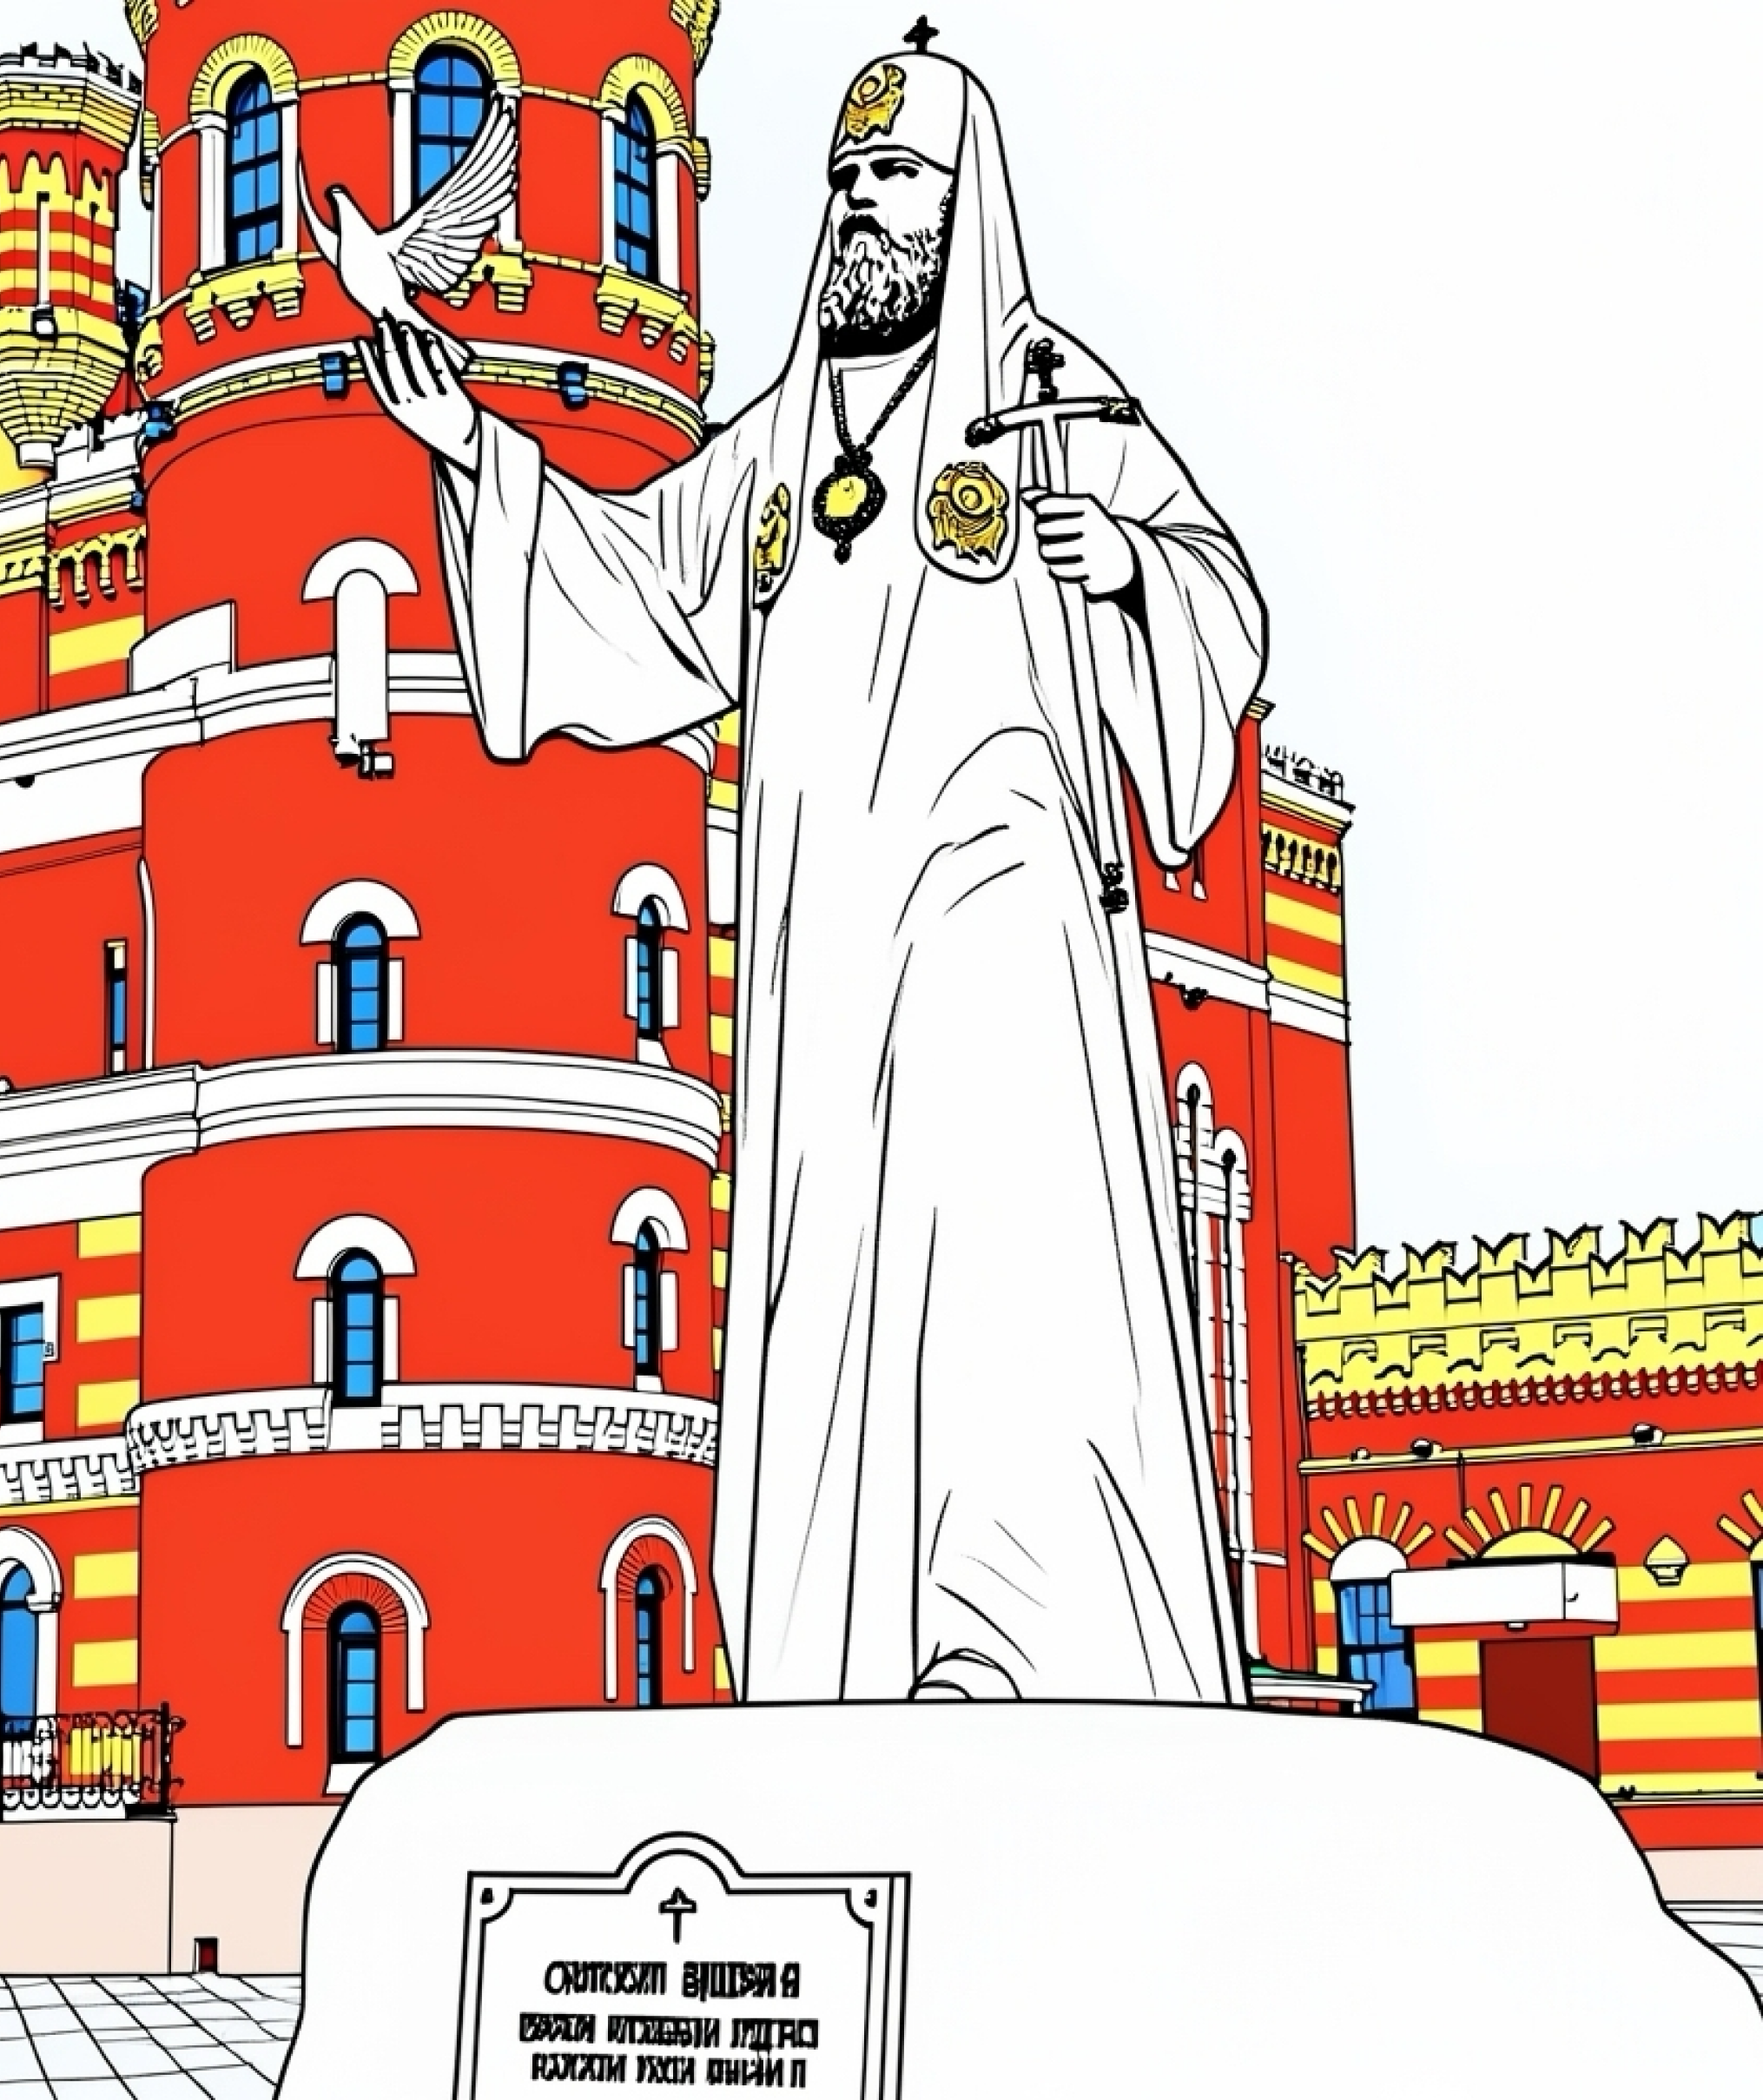
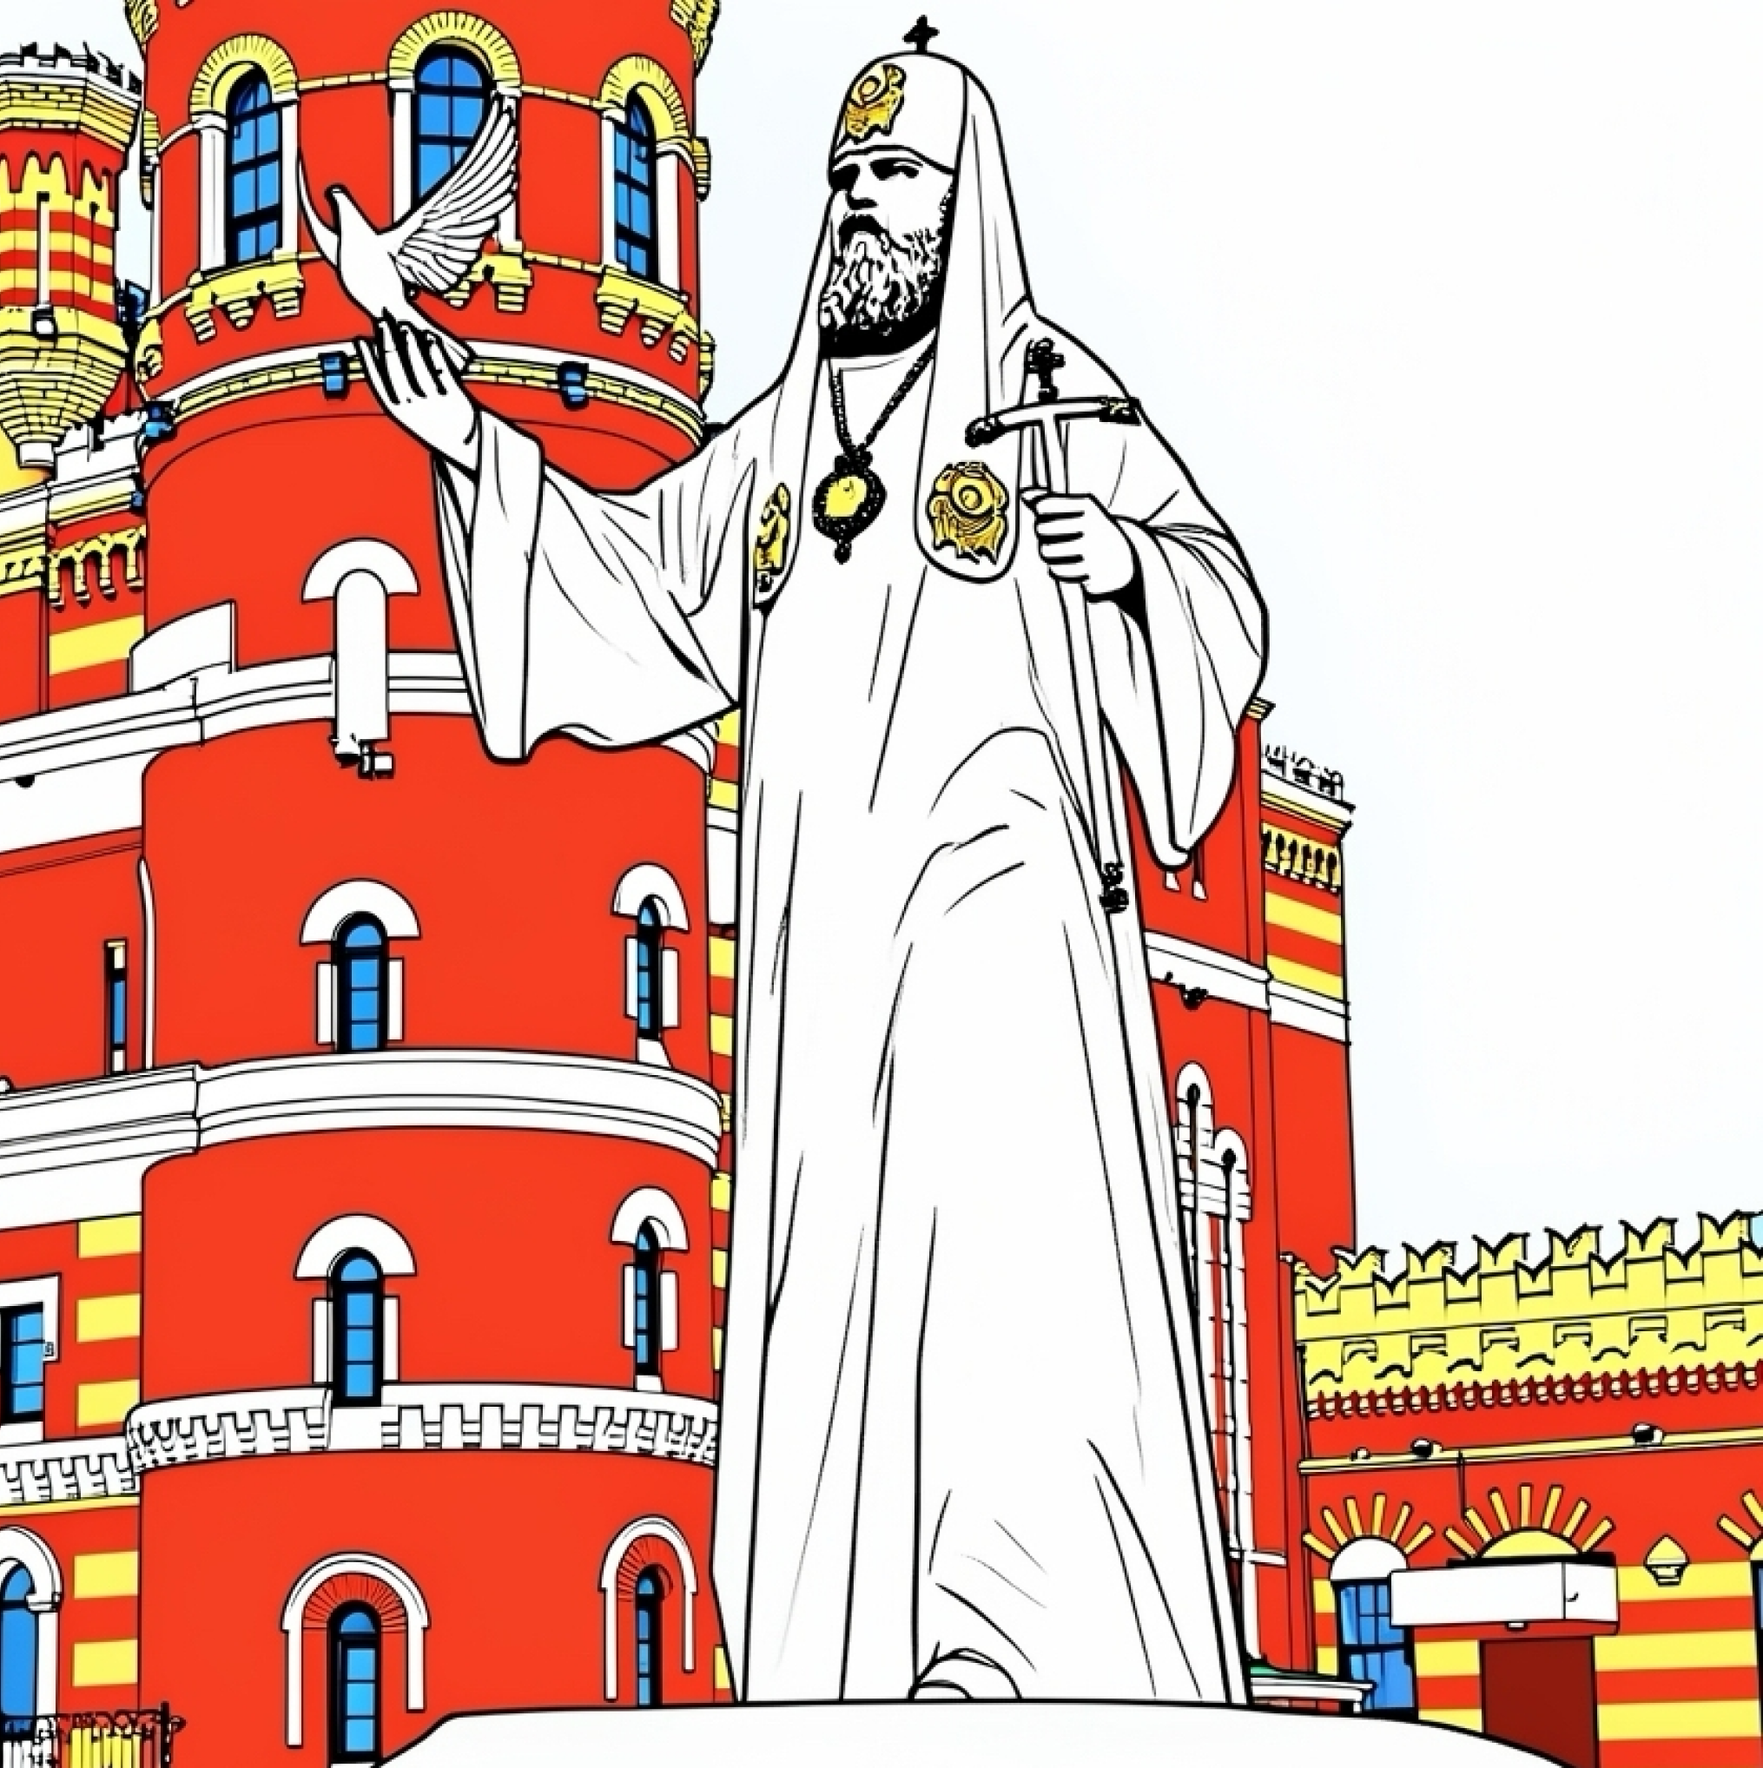
Исправил картинку в карточках(просто обрезал исходник, теперь нужны только квадратные картинки)

diff --git a/src/widgets/Section/Section.tsx b/src/widgets/Section/Section.tsx
@@ -1,6 +1,6 @@
 import { Title } from "@/shared/ui/titles";
 import styles from "./styles.module.scss";
-import type { Variant } from "@/shared/ui/Titles/types";
+import type { Variant } from "@/shared/ui/titles/types";
 
 type Props = {
   title?: string;

diff --git a/src/pages/main/sections/CardSection/Cards/ProductCard/styles.module.scss b/src/pages/main/sections/CardSection/Cards/ProductCard/styles.module.scss
@@ -12,7 +12,6 @@
 .productCard > img {
   border-radius: 6px;
   width: 100%;
-  height: 200px;
   object-fit: cover;
   object-position: center;
   display: block;
